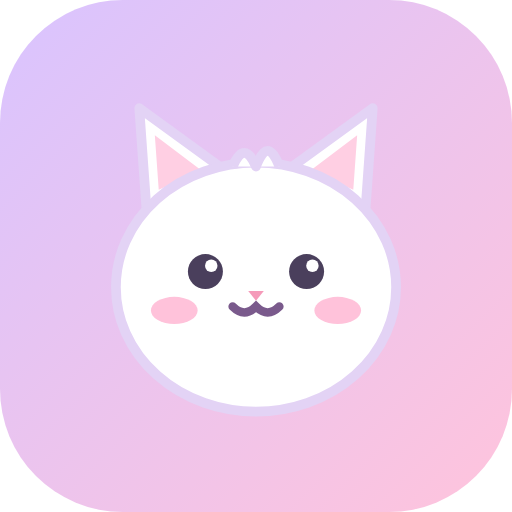
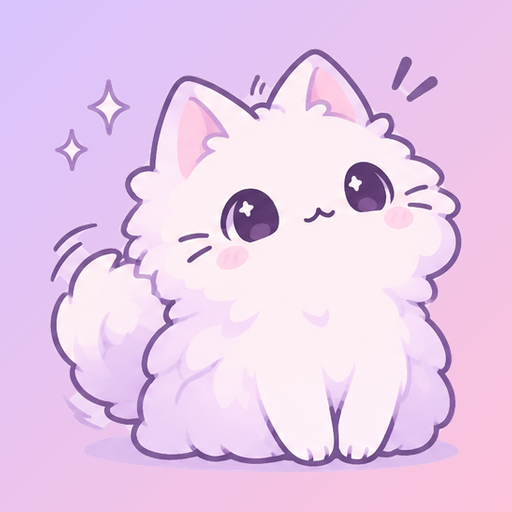
Котик River замість намальованого: шість настроїв з анімацією, нові іконки
Claude-Session: https://claude.ai/code/session_01KBJPMF96dkRt1qkhybikXE

diff --git a/app.js b/app.js
@@ -11,21 +11,11 @@ const MONTHS = ['січня', 'лютого', 'березня', 'квітня', 
 const STATUS = ['Не почато', 'В процесі', 'Готово'];
 
 // ---------- маскот ----------
+// Котика намалювала River: шість настроїв у icons/cat/*.webp
+const CAT = { happy: 'love', love: 'love', question: 'question', sleepy: 'sleepy', excited: 'excited', sad: 'sad', proud: 'proud' };
 function mascot(mood = 'happy', cls = '') {
-  const eyes = mood === 'sleepy'
-    ? '<path d="M32 54 q5 4 10 0M58 54 q5 4 10 0" stroke="#4a3f5c" stroke-width="2.5" fill="none" stroke-linecap="round"/>'
-    : '<circle cx="37" cy="54" r="4.5" fill="#4a3f5c"/><circle cx="63" cy="54" r="4.5" fill="#4a3f5c"/><circle cx="38.5" cy="52.5" r="1.6" fill="#fff"/><circle cx="64.5" cy="52.5" r="1.6" fill="#fff"/>';
-  const mouth = '<path d="M44 63 q3 3 6 0 q3 3 6 0" stroke="#7a5a8c" stroke-width="2.2" fill="none" stroke-linecap="round"/>';
-  return `<svg class="mascot ${cls}" viewBox="0 0 100 100" aria-hidden="true">
-    <path d="M22 40 L20 12 L42 28 Z M78 40 L80 12 L58 28 Z" fill="#fff" stroke="#e3d3f5" stroke-width="2.5" stroke-linejoin="round"/>
-    <path d="M25 33 L24 19 L36 28 Z M75 33 L76 19 L64 28 Z" fill="#ffcfe3"/>
-    <ellipse cx="50" cy="58" rx="36" ry="32" fill="#fff" stroke="#e3d3f5" stroke-width="2.5"/>
-    <path d="M44 27 q3 -7 6 0 q3 -8 6 0" fill="#fff" stroke="#e3d3f5" stroke-width="2.5" stroke-linejoin="round"/>
-    ${eyes}
-    <ellipse cx="29" cy="64" rx="6" ry="3.5" fill="#ffc2da"/><ellipse cx="71" cy="64" rx="6" ry="3.5" fill="#ffc2da"/>
-    <path d="M48 59 h4 l-2 2.5z" fill="#f59ab9"/>
-    ${mouth}
-  </svg>`;
+  const m = CAT[mood] || 'love';
+  return `<img class="mascot cat cat-${m} ${cls}" src="icons/cat/${m}.webp" alt="" aria-hidden="true" draggable="false">`;
 }
 
 // ---------- збережений стан ----------
@@ -161,7 +151,7 @@ function taskHTML(t) {
 }
 
 function cheer(text, mood = 'happy') {
-  return `<div class="cheer">${mascot(mood, 'wiggle')}<div>${text}</div></div>`;
+  return `<div class="cheer">${mascot(mood)}<div>${text}</div></div>`;
 }
 
 // ---------- екрани ----------
@@ -254,7 +244,7 @@ function renderTasks() {
 
   if (dated.length) html += `<div class="section-title">З дедлайном</div><div class="stack">${dated.map(taskHTML).join('')}</div>`;
   if (undated.length) html += `<div class="section-title">До сесії, дата ще невідома</div><div class="stack">${undated.map(taskHTML).join('')}</div>`;
-  if (!open.length) html += cheer('Усе зроблено! Ти молодець 💜');
+  if (!open.length) html += cheer('Усе зроблено! Ти молодець 💜', 'excited');
   if (done.length) {
     html += `<div class="section-title" style="display:flex;justify-content:space-between;align-items:center">Зроблено (${done.length})
       <button class="icon-btn small" data-toggle-done>${state.showDone ? 'сховати' : 'показати'}</button></div>`;
@@ -677,7 +667,7 @@ async function renderDeck() {
   const known = cardsKnown(l.id);
   let html = `<div class="backbar"><button data-back>‹ Назад</button><span class="small muted">запам'ятала ${known} з ${cards.length}</span></div>
     <div class="mini" style="margin:0 4px 14px"><span style="width:${known / cards.length * 100}%"></span></div>`;
-  if (state.deck.cur === -1) return html + cheer('Усі картки запам\'ятала! Ти неймовірна 💜') +
+  if (state.deck.cur === -1) return html + cheer('Усі картки запам\'ятала! Ти неймовірна 💜', 'excited') +
     `<p style="text-align:center"><button class="btn ghost" data-reset-deck>Почати спочатку</button></p>`;
   const c = cards[state.deck.cur];
   html += `<div class="card flash">
@@ -742,7 +732,7 @@ function renderTests() {
   if (state.quiz) return renderQuiz();
   const ls = quizLessons();
   if (!ls.length) return cheer('Тестів поки немає. Щойно з\'являться конспекти, я складу до них питання.', 'sleepy');
-  let html = `<div class="card hero quiz-hero">${mascot('happy')}<div><div class="t">Змішаний тест</div>
+  let html = `<div class="card hero quiz-hero">${mascot('question')}<div><div class="t">Змішаний тест</div>
     <div class="small">10 випадкових питань з усіх лекцій${state.program === 'all' ? '' : ' цієї програми'}</div>
     <button class="btn" data-start-quiz="mix" style="margin-top:10px">Почати ✏</button></div></div>`;
   for (const s of V.subjects()) {
@@ -767,8 +757,8 @@ function renderQuiz() {
     <div class="mini" style="margin:0 4px 14px"><span style="width:${z.pos / n * 100}%"></span></div>`;
   if (z.pos === n) {
     const pct = Math.round(z.score / n * 100);
-    const msg = pct >= 90 ? 'Майже все правильно! Ти чудово знаєш цю тему 💜' : pct >= 70 ? 'Дуже добре! Лишилось трохи підтягнути.' : pct >= 40 ? 'Непогано для початку. Перечитай конспект і спробуй ще раз.' : 'Тема ще свіжа, це нормально. Почитай конспект, а потім повернись сюди.';
-    html += `<div class="card quiz-result"><div class="big">${z.score} з ${n}</div><div class="muted">${title ? esc(title) : ''}</div></div>` + cheer(msg, pct >= 40 ? 'happy' : 'sleepy');
+    const msg = pct >= 90 ? 'Майже все правильно! Ти чудово знаєш цю тему 💜' : pct >= 70 ? 'Дуже добре! Лишилось трохи підтягнути.' : pct >= 50 ? 'Непогано для початку. Перечитай конспект і спробуй ще раз.' : 'Тема ще свіжа, це нормально. Почитай конспект, а потім повернись сюди.';
+    html += `<div class="card quiz-result"><div class="big">${z.score} з ${n}</div><div class="muted">${title ? esc(title) : ''}</div></div>` + cheer(msg, pct >= 90 ? 'excited' : pct >= 70 ? 'proud' : pct >= 50 ? 'love' : 'sad');
     html += `<div class="stack" style="margin-top:12px">
       ${z.wrong.length ? `<button class="btn block" data-quiz-wrong>Повторити помилки (${z.wrong.length})</button>` : ''}
       <button class="btn block ghost" data-start-quiz="${z.id}">Пройти ще раз</button>
@@ -776,7 +766,8 @@ function renderQuiz() {
     return html;
   }
   const it = z.items[z.pos], q = QUIZ[it.lid][it.qi];
-  html += `<div class="card quiz">
+  const qm = z.picked === null ? 'question' : it.perm[z.picked] === QUIZ[it.lid][it.qi].a ? 'excited' : 'sad';
+  html += `<div class="card quiz">${mascot(qm, 'quiz-cat')}
     <div class="lec">${esc(z.id === 'mix' ? lesson(it.lid)?.title : title)}</div>
     <div class="q">${esc(q.q)}</div>
     <div class="opts">${it.perm.map((oi, k) => {
@@ -802,7 +793,7 @@ function setProfile(p) {
   applyProfile(); render();
 }
 function profileSheet() {
-  openSheet(`<div style="text-align:center">${mascot('happy', 'wiggle onb')}</div>
+  openSheet(`<div style="text-align:center">${mascot('love', 'onb')}</div>
     <h2 style="text-align:center">Привіт! Що ти вчиш?</h2>
     <p class="small muted" style="text-align:center;margin-top:0">Додаток покаже тільки твої предмети. Змінити можна будь-коли в налаштуваннях.</p>
     <div class="stack"><button class="btn block" data-profile="knu">🎓 Магістратура Каразіна</button>
@@ -815,7 +806,7 @@ const TITLES = { today: 'Сьогодні', schedule: 'Розклад', tasks: '
 function render() {
   document.querySelectorAll('.tabs button').forEach(b => b.classList.toggle('active', b.dataset.tab === state.tab));
   document.querySelectorAll('#progbar button').forEach(b => b.classList.toggle('on', b.dataset.prog === state.program));
-  $('#screen-title').innerHTML = (state.tab === 'today' ? mascot('happy', 'wiggle') : '') + TITLES[state.tab];
+  $('#screen-title').innerHTML = (state.tab === 'today' ? mascot('proud') : '') + TITLES[state.tab];
   const fn = { today: renderToday, schedule: renderSchedule, tasks: renderTasks, learn: renderLearn, tests: renderTests, progress: renderProgress }[state.tab];
   const out = fn();
   if (out instanceof Promise) out.then(h => { view.innerHTML = h; afterRender(); }); else { view.innerHTML = out; afterRender(); }
@@ -867,7 +858,7 @@ async function init() {
     try { LEARN = await (await fetch('data/learn/index.json', { cache: 'no-cache' })).json(); } catch { LEARN = []; }
     try { QUIZ = await (await fetch('data/learn/quiz.json', { cache: 'no-cache' })).json(); } catch { QUIZ = {}; }
   } catch {
-    view.innerHTML = cheer('Не вдалося завантажити дані. Перевір інтернет і онови сторінку.', 'sleepy');
+    view.innerHTML = cheer('Не вдалося завантажити дані. Перевір інтернет і онови сторінку.', 'sad');
     return;
   }
   // ?p=knu — посилання на версію лише з Каразіним, ?p=all — обидві програми

diff --git a/styles.css b/styles.css
@@ -48,7 +48,7 @@ a { color: var(--accent); }
   backdrop-filter: blur(10px);
 }
 .top h1 { font-size: 28px; margin: 0; font-weight: 800; display: flex; align-items: center; gap: 10px; }
-.top h1 .mascot { width: 40px; height: 40px; }
+.top h1 .mascot { width: 50px; height: 50px; margin: -6px 0; }
 .icon-btn { background: none; border: 0; padding: 8px; border-radius: 10px; color: var(--muted); cursor: pointer; }
 .icon-btn:hover { background: var(--accent-soft); }
 
@@ -169,7 +169,7 @@ dialog::backdrop { background: rgba(10, 10, 20, .45); }
 .pop { animation: pop .35s ease; }
 @keyframes pop { 0% { transform: scale(.6); } 60% { transform: scale(1.2); } 100% { transform: scale(1); } }
 .cheer { text-align: center; padding: 22px 16px; color: var(--muted); }
-.cheer svg { width: 84px; height: 84px; display: block; margin: 0 auto 6px; }
+.cheer .mascot { width: 110px; height: 110px; display: block; margin: 0 auto 6px; }
 @media (prefers-reduced-motion: reduce) { .wiggle, .pop { animation: none; } }
 
 /* план на сьогодні */
@@ -261,3 +261,21 @@ dialog::backdrop { background: rgba(10, 10, 20, .45); }
 .lp-q.good { background: color-mix(in srgb, var(--ok) 35%, var(--card)); color: var(--text); }
 .lp-q.mid { background: color-mix(in srgb, var(--warn) 35%, var(--card)); color: var(--text); }
 .lp-q.low { background: color-mix(in srgb, #f08aa8 25%, var(--card)); color: var(--text); }
+
+/* котик River: дихає, гойдається і реагує на настрій */
+.cat { display: block; object-fit: contain; user-select: none; -webkit-user-drag: none; transform-origin: 50% 92%; animation: cat-breathe 3.6s ease-in-out infinite; }
+@keyframes cat-breathe { 0%, 100% { transform: scale(1, 1); } 50% { transform: scale(1.025, .975); } }
+.cat-love, .cat-proud { animation: cat-sway 4.2s ease-in-out infinite; }
+@keyframes cat-sway { 0%, 100% { transform: rotate(0) scale(1); } 25% { transform: rotate(-3deg) scale(1.02, .98); } 75% { transform: rotate(3deg) scale(1.02, .98); } }
+.cat-question { animation: cat-tilt 3s ease-in-out infinite; }
+@keyframes cat-tilt { 0%, 60%, 100% { transform: rotate(0); } 70% { transform: rotate(-7deg); } 85% { transform: rotate(-5deg); } }
+.cat-excited { animation: cat-hop .9s ease-in-out infinite; }
+@keyframes cat-hop { 0%, 100% { transform: translateY(0) scale(1.03, .97); } 45% { transform: translateY(-9%) scale(.98, 1.03); } }
+.cat-sleepy { animation: cat-sleep 5s ease-in-out infinite; }
+@keyframes cat-sleep { 0%, 100% { transform: scale(1, 1); } 50% { transform: scale(1.04, .95); } }
+.cat-sad { animation: cat-sad 4s ease-in-out infinite; }
+@keyframes cat-sad { 0%, 100% { transform: translateY(0) rotate(0); } 50% { transform: translateY(2%) rotate(-2deg); } }
+.quiz { position: relative; }
+.quiz-cat { position: absolute; right: 10px; top: -34px; width: 70px; height: 70px; }
+.quiz .lec { padding-right: 70px; }
+@media (prefers-reduced-motion: reduce) { .cat { animation: none; } }

diff --git a/sw.js b/sw.js
@@ -1,6 +1,6 @@
 // Кешує додаток, щоб він відкривався без інтернету. Дані завжди пробує взяти свіжі.
-const CACHE = 'study-v8';
-const ASSETS = ['./', 'index.html', 'styles.css', 'app.js', 'manifest.webmanifest', 'icons/icon.svg', 'icons/icon-192.png', 'icons/icon-512.png', 'data/data.json', 'data/learn/index.json', 'data/learn/quiz.json'];
+const CACHE = 'study-v9';
+const ASSETS = ['./', 'index.html', 'styles.css', 'app.js', 'manifest.webmanifest', 'icons/cat/love.webp', 'icons/cat/question.webp', 'icons/cat/sleepy.webp', 'icons/cat/excited.webp', 'icons/cat/sad.webp', 'icons/cat/proud.webp', 'icons/icon-192.png', 'icons/icon-512.png', 'data/data.json', 'data/learn/index.json', 'data/learn/quiz.json'];
 
 self.addEventListener('install', e => {
   e.waitUntil(caches.open(CACHE).then(c => c.addAll(ASSETS.map(a => new Request(a, { cache: 'reload' })))).then(() => self.skipWaiting()));

diff --git a/index.html b/index.html
@@ -8,7 +8,7 @@
   <meta name="robots" content="noindex, nofollow">
   <meta name="theme-color" content="#fdf6fb">
   <link rel="manifest" href="manifest.webmanifest">
-  <link rel="icon" href="icons/icon.svg" type="image/svg+xml">
+  <link rel="icon" href="icons/icon-192.png" type="image/png">
   <link rel="apple-touch-icon" href="icons/icon-192.png">
   <meta name="apple-mobile-web-app-capable" content="yes">
   <meta name="apple-mobile-web-app-title" content="Навчання">
